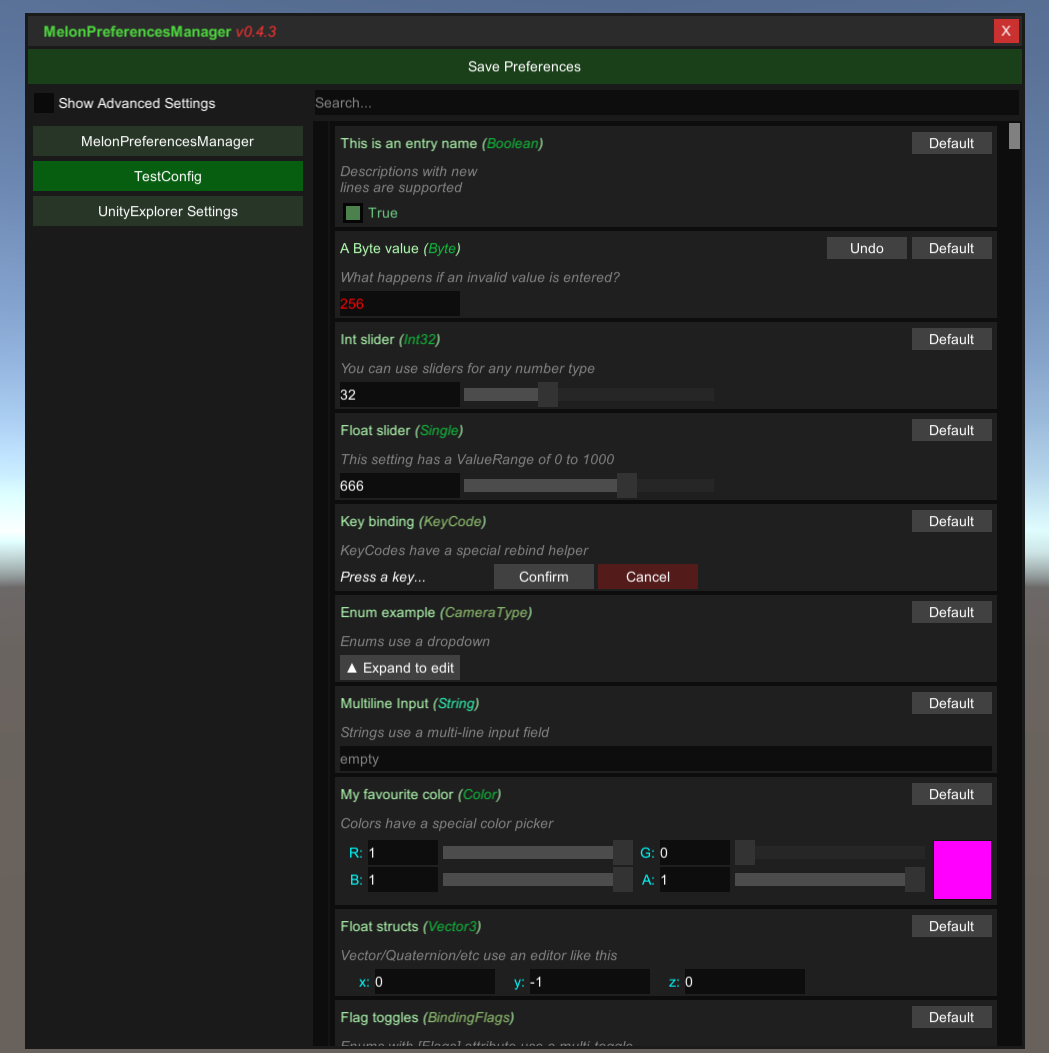
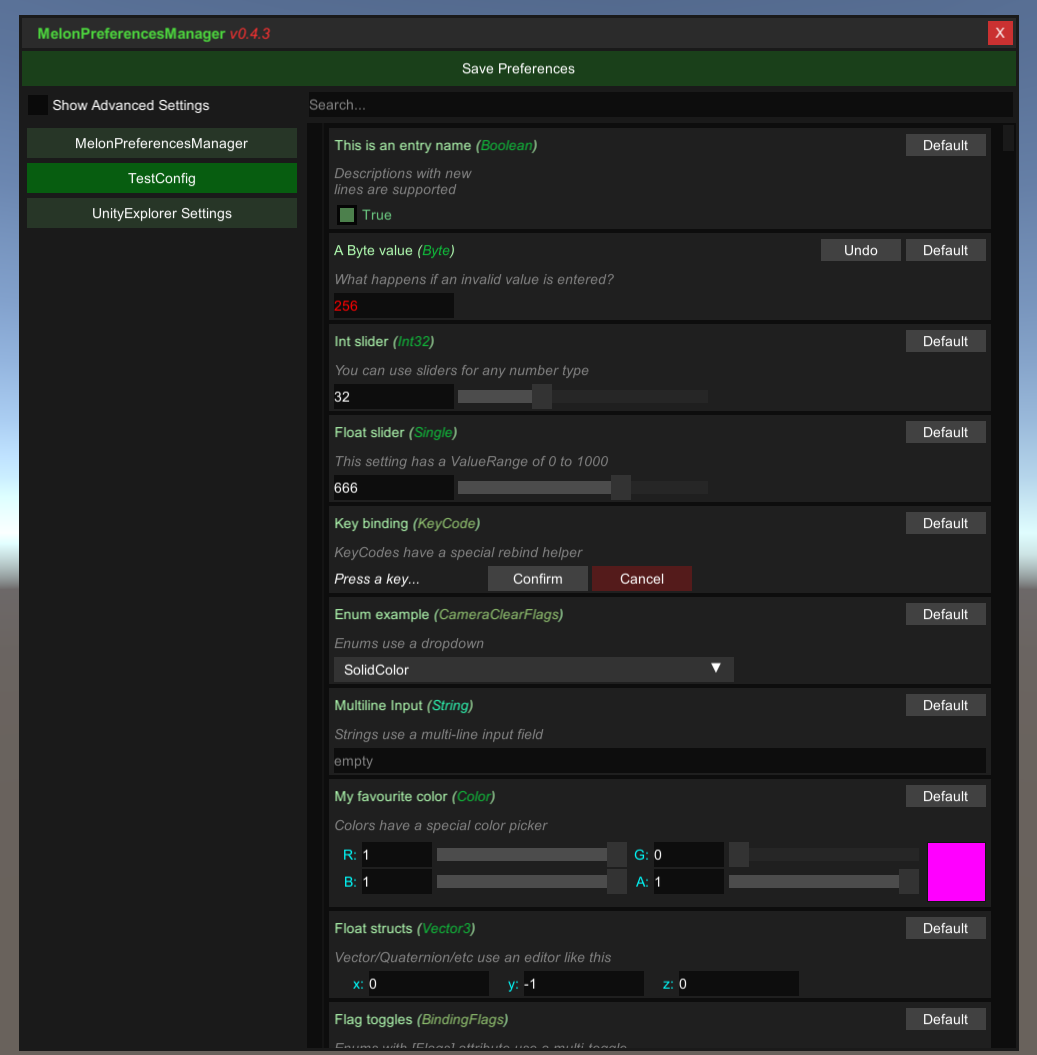
Update img

diff --git a/src/PrefManagerMod.cs b/src/PrefManagerMod.cs
@@ -69,7 +69,7 @@ namespace MelonPrefManager
         //    testCtg.CreateEntry("Int slider", 32, description: "You can use sliders for any number type", validator: new ValueRange<int>(0, 100));
         //    testCtg.CreateEntry("Float slider", 666f, description: "This setting has a ValueRange of 0 to 1000", validator: new ValueRange<float>(0, 1000f));
         //    testCtg.CreateEntry("Key binding", KeyCode.Dollar, description: "KeyCodes have a special rebind helper");
-        //    testCtg.CreateEntry("Enum example", CameraType.Game, description: "Enums use a dropdown");
+        //    testCtg.CreateEntry("Enum example", CameraClearFlags.Color, description: "Enums use a dropdown");
         //    testCtg.CreateEntry("Multiline Input", (string)null, description: "Strings use a multi-line input field");
         //    testCtg.CreateEntry("My favourite color", Color.magenta, description: "Colors have a special color picker");
         //    testCtg.CreateEntry("Float structs", Vector3.down, description: "Vector/Quaternion/etc use an editor like this");
